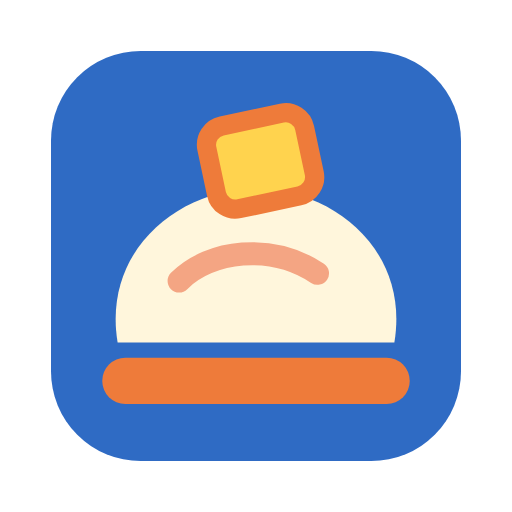
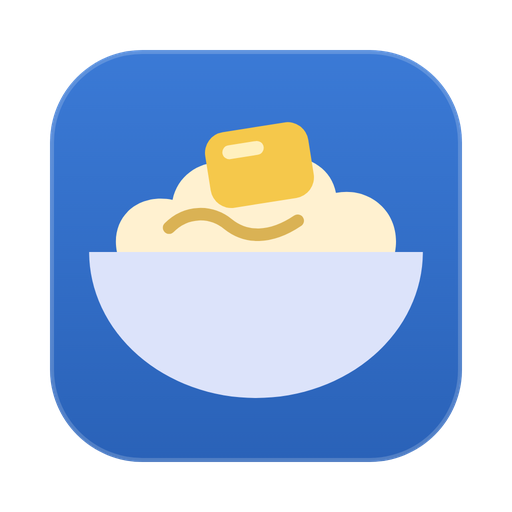
Carry the redesign to the desktop page and the Raycast extension
Machine chips on agent and project tiles show the machine's operating
system mark. The desktop app's loading page copies Geist from the
dashboard instead of Space Grotesk. The Raycast extension shows each
agent as its logo on a tile in the agent's colour, in light and dark
versions generated from the vendored logos, and its icon is the new app
icon.

diff --git a/dashboard/src/components/Projects.svelte b/dashboard/src/components/Projects.svelte
@@ -6,6 +6,7 @@ const view: ProjectView = $state({ find: "", agent: "", machine: "", sort: "rece
 </script>
 
 <script lang="ts">
+import MachineIcon from "./MachineIcon.svelte";
 import ArrowDownAZ from "@lucide/svelte/icons/arrow-down-a-z";
 import Bot from "@lucide/svelte/icons/bot";
 import ClockArrowDown from "@lucide/svelte/icons/clock-arrow-down";
@@ -113,7 +114,7 @@ const now = Date.now();
       <span class="bar"><i style:width="{Math.max(2, Math.round((project.chats.length / largest) * 100))}%"></i></span>
       <span class="sum-f">
         {#each project.agents.slice(0, 5) as [agent] (agent)}<span title={agentInfo[agent].name}><AgentMark {agent} size="sm" /></span>{/each}
-        {#each project.machines as [machine] (machine)}<span class="mchip"><Laptop size={13} aria-hidden="true" />{machine}</span>{/each}
+        {#each project.machines as [machine] (machine)}<span class="mchip"><MachineIcon {machine} size={13} />{machine}</span>{/each}
         <span class="sp">{whenLabel(project.latestMs, now)}</span>
       </span>
     </a>

diff --git a/dashboard/src/components/BrowseTiles.svelte b/dashboard/src/components/BrowseTiles.svelte
@@ -1,5 +1,4 @@
 <script lang="ts">
-import Laptop from "@lucide/svelte/icons/laptop";
 import { createQuery } from "@tanstack/svelte-query";
 import { agents as agentInfo } from "../lib/agents";
 import { asset } from "../lib/asset";
@@ -68,7 +67,7 @@ function host(url: string): string {
       <span class="bar"><i style:width="{Math.max(2, Math.round((group.chats.length / Math.max(1, chats.length)) * 100))}%"></i></span>
       {#if field === "agent"}
         <span class="sum-f">
-          {#each group.machines as [machine] (machine)}<span class="mchip"><Laptop size={13} aria-hidden="true" />{machine}</span>{/each}
+          {#each group.machines as [machine] (machine)}<span class="mchip"><MachineIcon {machine} size={13} />{machine}</span>{/each}
           <span class="sp">{whenLabel(group.latestMs, now)}</span>
         </span>
       {:else}

diff --git a/raycast/src/search.tsx b/raycast/src/search.tsx
@@ -286,13 +286,13 @@ const openApp = (
 );
 
 /** The agent's own logo, in its colour; ink logos follow Raycast's theme. */
+/** The agent's logo on a tile in its colour, as the Mash dashboard draws it:
+ * assets/agent-tiles holds a light and a dark version of each. */
 function agentIcon(agent: string): Image.ImageLike {
   const logo = agentLogo(agent);
   if (!logo) return Icon.Message;
-  return {
-    source: `agents/${logo.file}`,
-    tintColor: logo.tint ?? { light: "#16150f", dark: "#f5f0e4", adjustContrast: false },
-  };
+  const name = logo.file.replace(/\.svg$/, "");
+  return { source: { light: `agent-tiles/${name}-light.svg`, dark: `agent-tiles/${name}-dark.svg` } };
 }
 
 function HitDetail({ hit }: { hit: Hit }) {

diff --git a/desktop/ui/page.css b/desktop/ui/page.css
@@ -1,16 +1,16 @@
 /* The loading page uses the dashboard's roles only; tokens.css defines them.
    The font files are the dashboard's, copied in by the app's build. */
 @font-face {
-  font-family: "Space Grotesk";
+  font-family: "Geist";
   font-weight: 400;
   font-display: swap;
   src: url("sans-400.woff2") format("woff2");
 }
 @font-face {
-  font-family: "Space Grotesk";
-  font-weight: 700;
+  font-family: "Geist";
+  font-weight: 600;
   font-display: swap;
-  src: url("sans-700.woff2") format("woff2");
+  src: url("sans-600.woff2") format("woff2");
 }
 @font-face {
   font-family: "Geist Mono";

diff --git a/desktop/src-tauri/build.rs b/desktop/src-tauri/build.rs
@@ -14,12 +14,12 @@ const REQUIRED: [(&str, &str); 2] = [
 /// checkout whose dashboard is not installed) the page uses the system font.
 const FONTS: [(&str, &str); 3] = [
     (
-        "space-grotesk/files/space-grotesk-latin-400-normal.woff2",
+        "geist/files/geist-latin-400-normal.woff2",
         "sans-400.woff2",
     ),
     (
-        "space-grotesk/files/space-grotesk-latin-700-normal.woff2",
-        "sans-700.woff2",
+        "geist/files/geist-latin-600-normal.woff2",
+        "sans-600.woff2",
     ),
     (
         "geist-mono/files/geist-mono-latin-400-normal.woff2",
